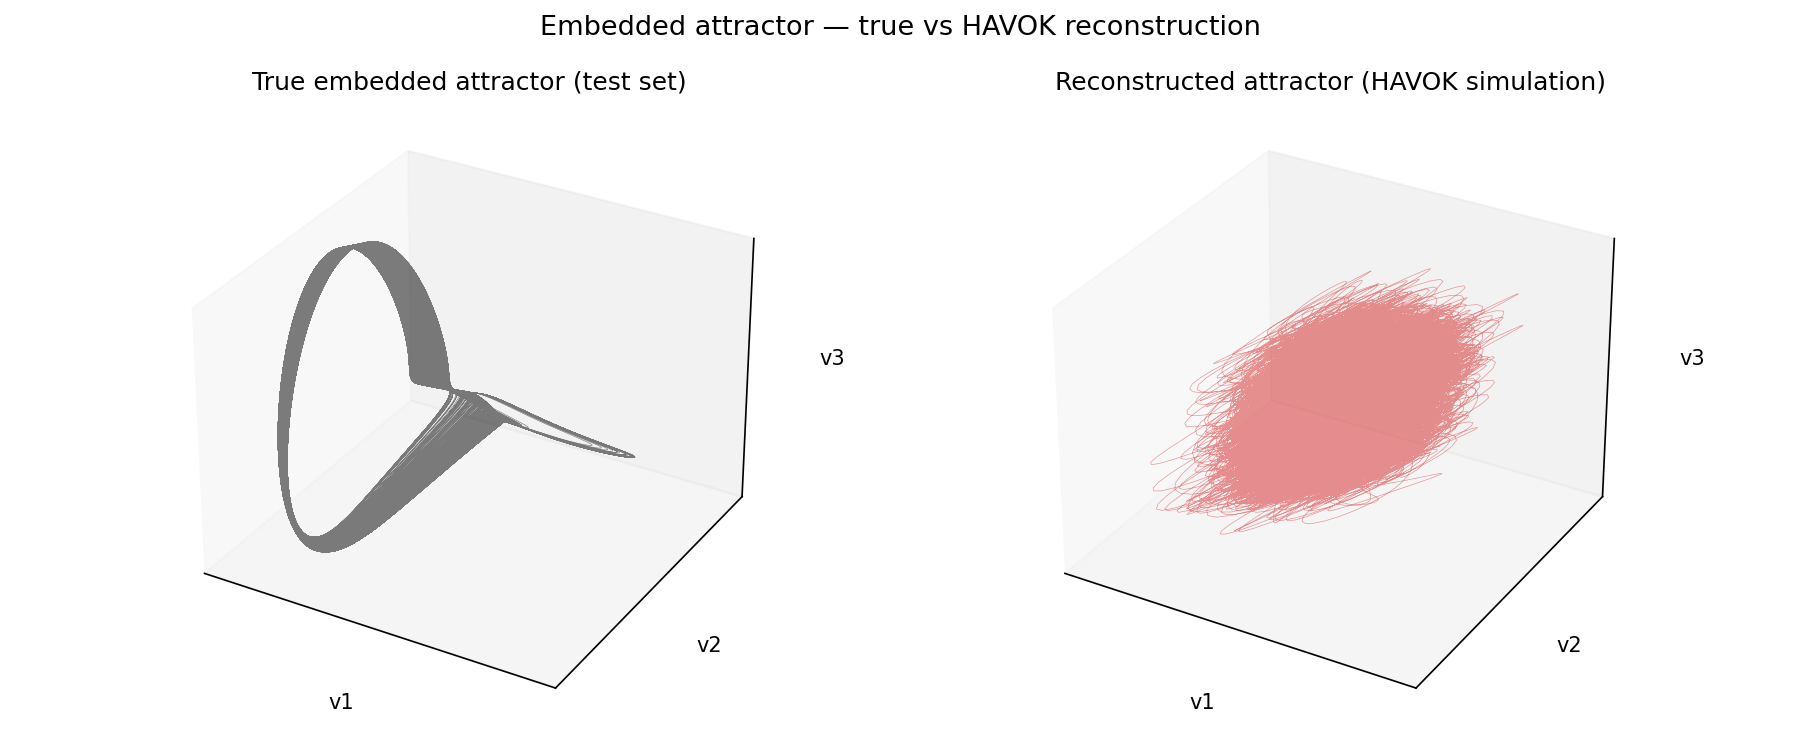
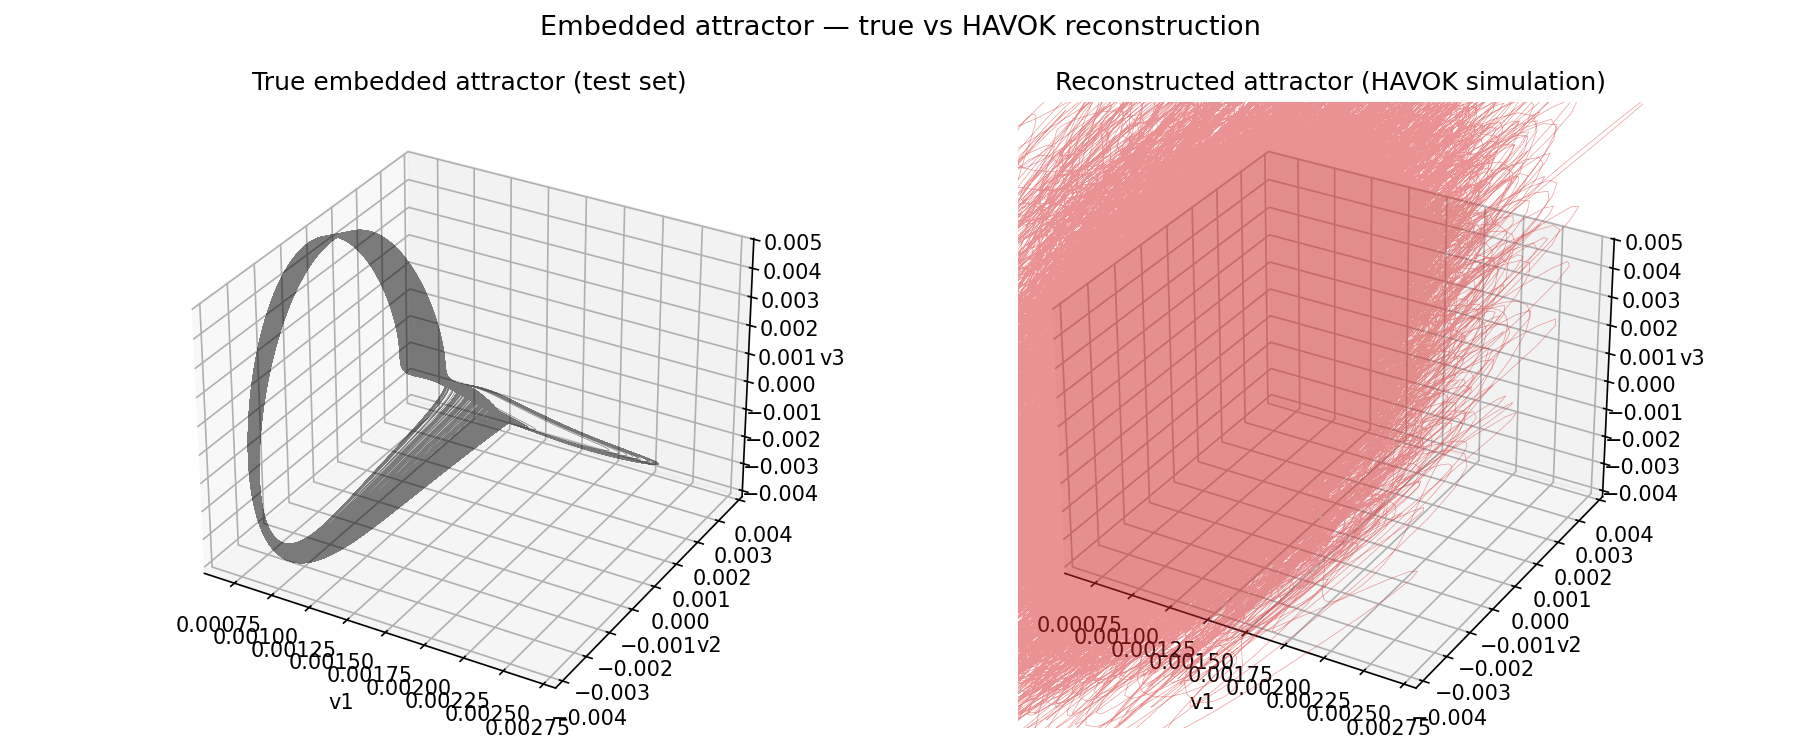
add numbers to plot axes

diff --git a/hr-havok.py b/hr-havok.py
@@ -543,6 +543,11 @@ def main():
     print(f"  R²_rec on train set: {r2_rec_train:.4f}")
     print(f"  R²_rec on test set:  {r2_rec_test:.4f}")
 
+    print(f"V_linear_test range: {V_linear_test.min():.4f} to {V_linear_test.max():.4f}")
+    print(f"V_sim_test range:    {V_sim_test.min():.4f} to {V_sim_test.max():.4f}")
+    print(f"V_linear_test shape: {V_linear_test.shape}")
+    print(f"V_sim_test shape:    {V_sim_test.shape}")
+
     # Forcing statistics
     q_start = true_onsets[0] + int(50 / dt)
     q_end   = true_onsets[1] - int(50 / dt)
@@ -779,14 +784,12 @@ def main():
              c="k", lw=0.3, alpha=0.5)
     ax1.set_title("True embedded attractor (test set)")
     ax1.set_xlabel("v1"); ax1.set_ylabel("v2"); ax1.set_zlabel("v3")
-    ax1.set_xticks([]); ax1.set_yticks([]); ax1.set_zticks([])
  
     ax2 = fig.add_subplot(122, projection="3d")
     ax2.plot(V_sim_test[:, 0], V_sim_test[:, 1], V_sim_test[:, 2],
              c="tab:red", lw=0.3, alpha=0.5)
     ax2.set_title("Reconstructed attractor (HAVOK simulation)")
     ax2.set_xlabel("v1"); ax2.set_ylabel("v2"); ax2.set_zlabel("v3")
-    ax2.set_xticks([]); ax2.set_yticks([]); ax2.set_zticks([])
  
     plt.suptitle("Embedded attractor — true vs HAVOK reconstruction", fontsize=13)
     plt.tight_layout()
